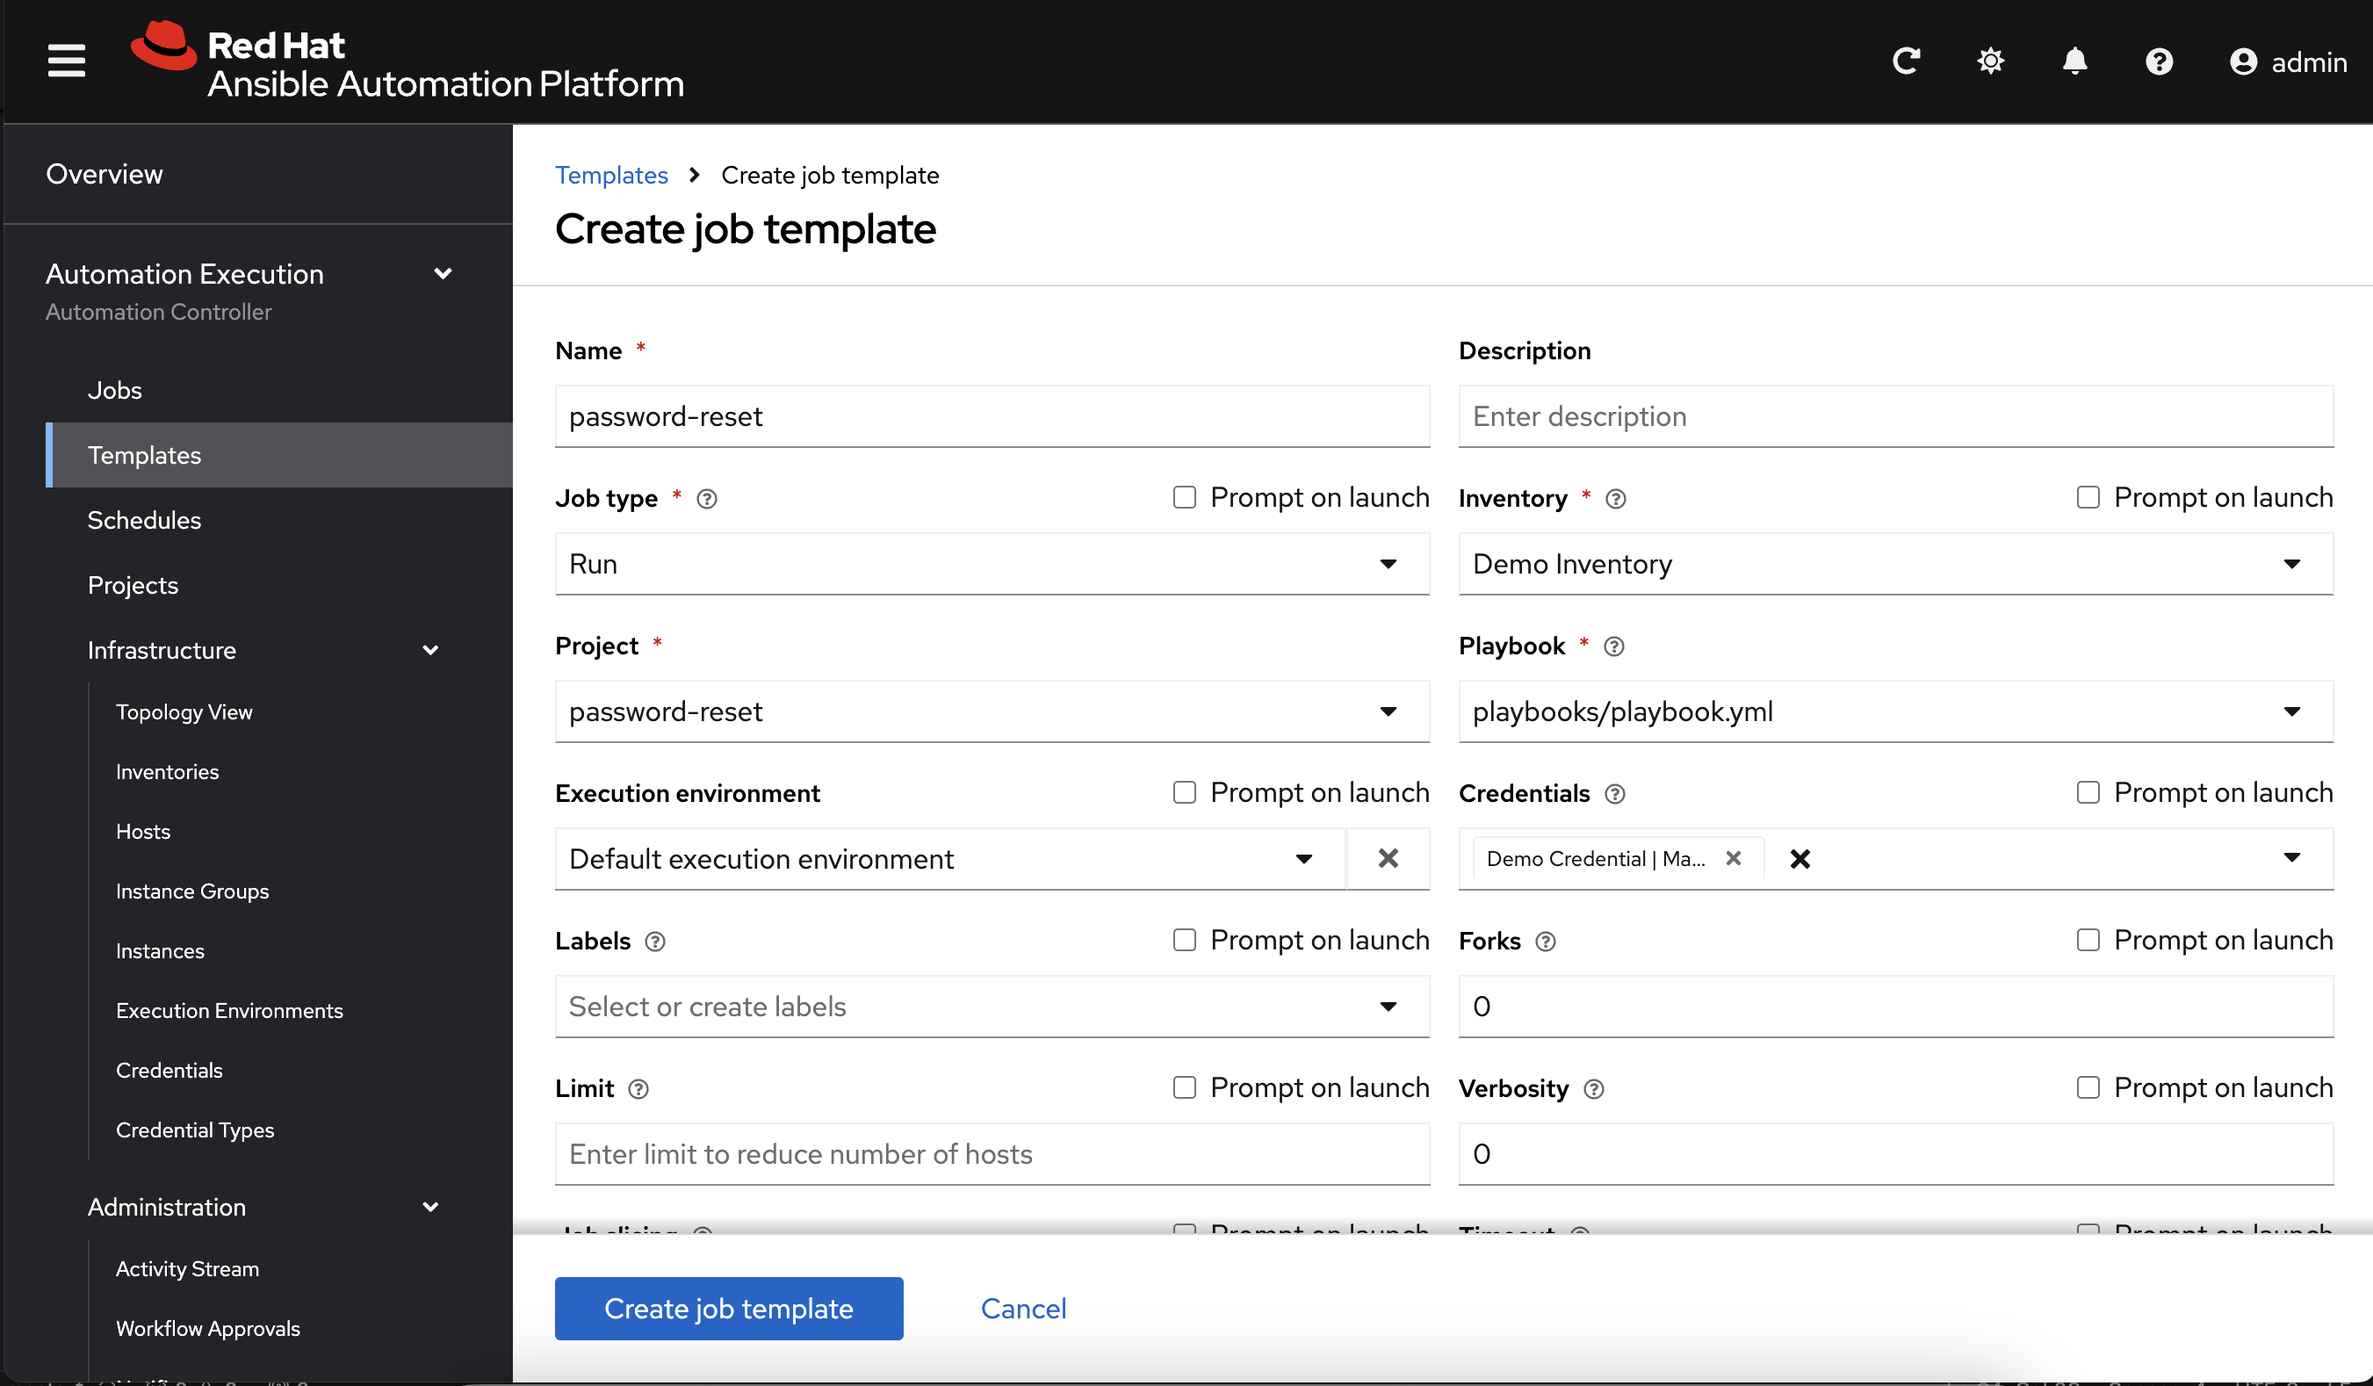
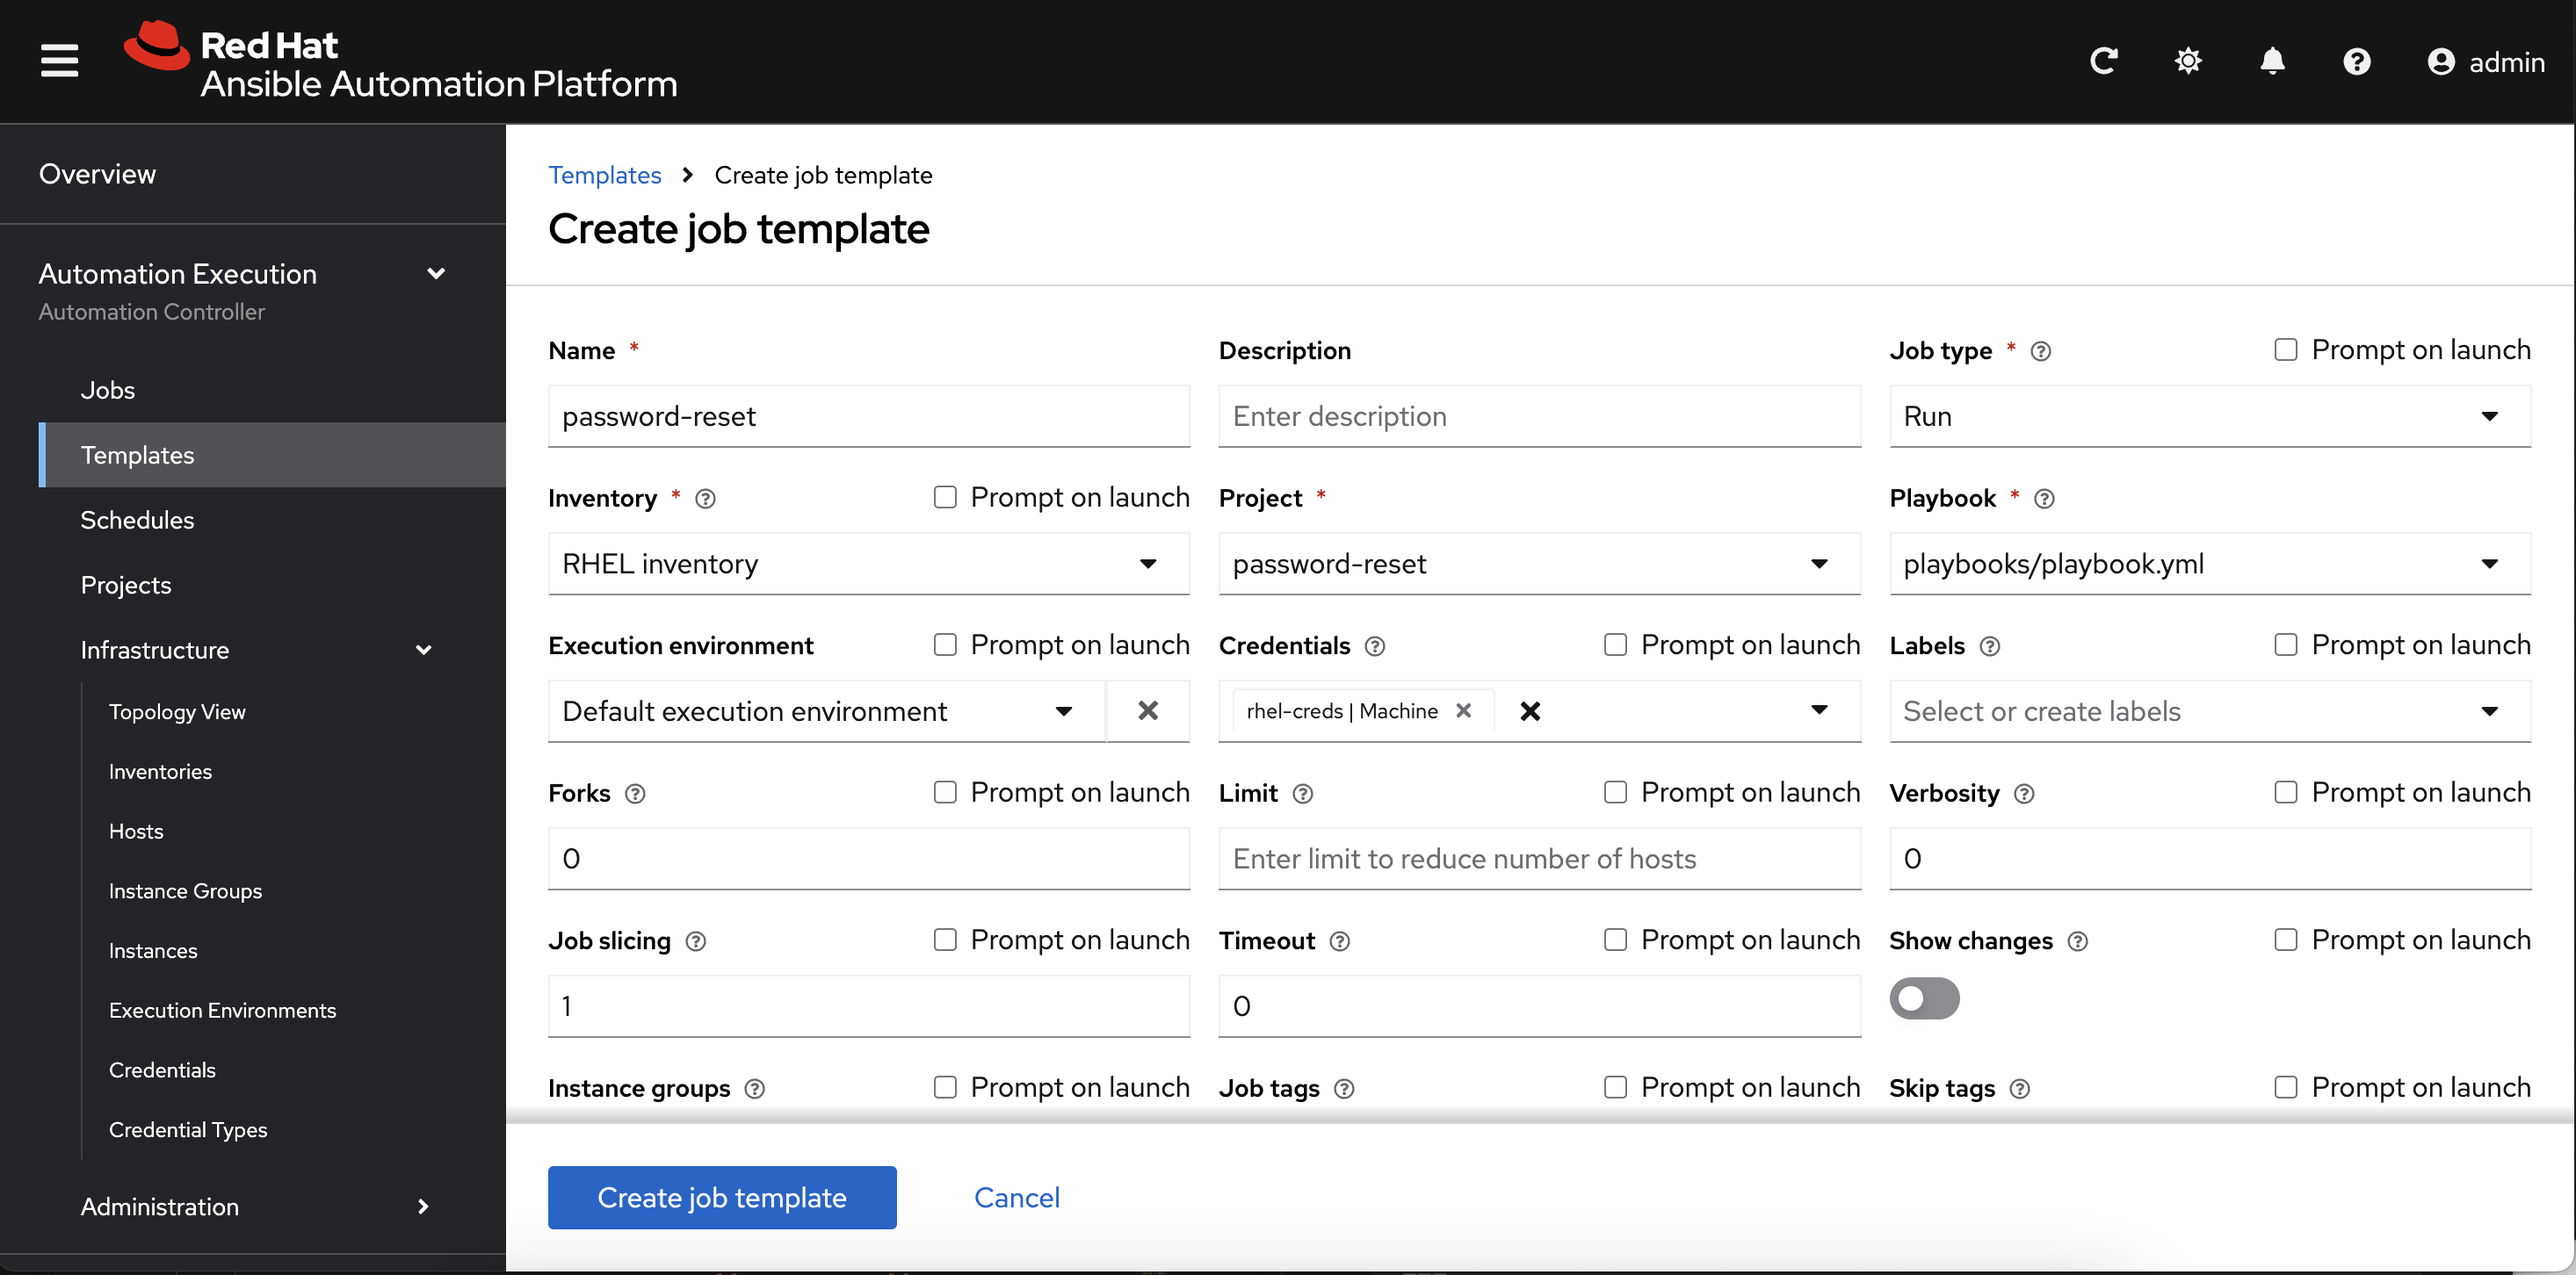
update readme

diff --git a/README.md b/README.md
@@ -81,11 +81,11 @@ Create the project. You should see the `Last job status` as Success.
 ```
 Name: password-reset
 Job type: Run
-Inventory: Demo inventory (where your RHEL host is)
+Inventory: RHEL Inventory
 Project: password-reset
 Playbook: playbooks/playbook.yml
 Execution Environment: Default execution environment
-Credentials: Create credentials for to access your RHEL host
+Credentials: rhel-creds
 Extra vars: Prompt on launch
 ```
 ![Job template](img/job_template.png)
